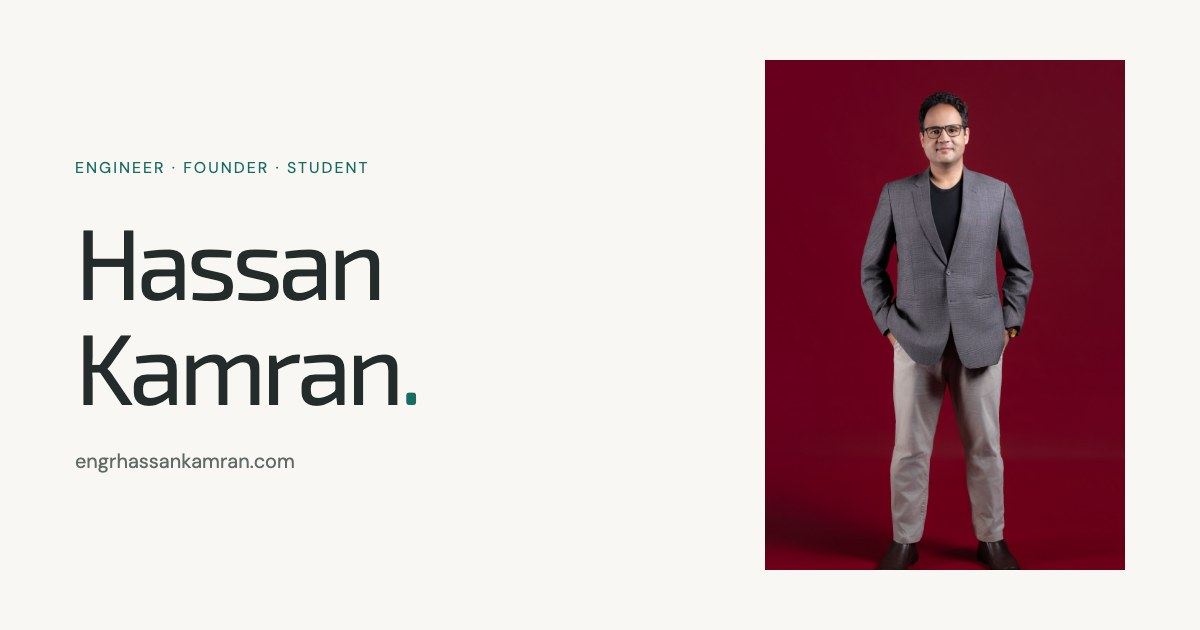
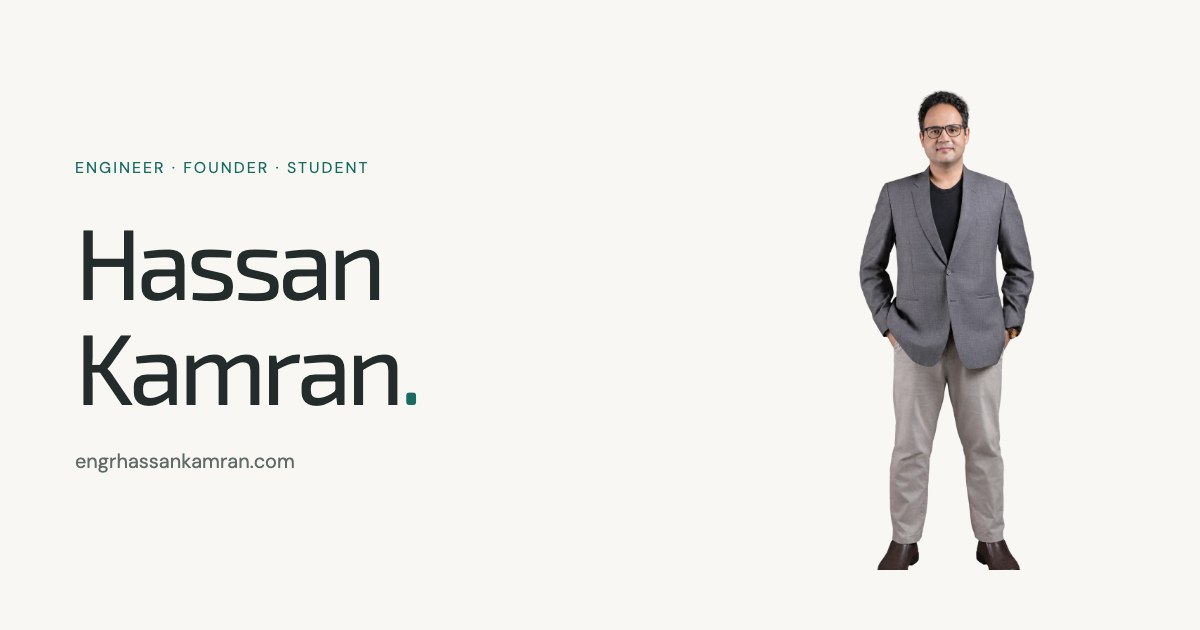
Remove red portrait backdrop and refresh sharing image

Changed region(s): [[0.6167, 0.0905, 0.9558, 0.9048]]

diff --git a/index.html b/index.html
@@ -6,7 +6,7 @@
         <p class="hero-now">Now building <strong>Khan AI</strong> and pursuing an MBA at <strong>Asia School of Business</strong>.</p>
         <div class="hero-links"><a class="text-link" href="#about">A little about me <span aria-hidden="true">↓</span></a><a href="/hassan-kamran-resume.pdf" download>Download résumé <span aria-hidden="true">↗</span></a></div>
       </div>
-      <figure class="portrait"><img src="/static/hassan-kamran.jpg" width="1000" height="1500" alt="Hassan Kamran in a grey blazer, standing against a burgundy backdrop" fetchpriority="high"><figcaption>A face to go with the name.</figcaption></figure>
+      <figure class="portrait"><img src="/static/hassan-kamran.webp" width="1024" height="1536" alt="Hassan Kamran in a grey blazer" fetchpriority="high"><figcaption>A face to go with the name.</figcaption></figure>
     </section>
     <section id="about" class="section-grid">
       <div class="section-label"><span class="section-number">01 /</span><h2>A little about me</h2></div>

diff --git a/templates/base.html b/templates/base.html
@@ -22,7 +22,7 @@
   <link rel="manifest" href="/site.webmanifest">
   <link rel="alternate" type="application/rss+xml" title="Hassan Kamran’s blog" href="/rss.xml">
   <link rel="preload" href="/static/DMSans-Regular.woff2" as="font" type="font/woff2" crossorigin>
-  <link rel="stylesheet" href="/static/site.css?v=2">
+  <link rel="stylesheet" href="/static/site.css?v=3">
   <script src="/static/site.js?v=20" defer></script>
 </head>
 <body>

diff --git a/assets-src/og-card.html b/assets-src/og-card.html
@@ -16,5 +16,5 @@ footer { color: #606a66; font-size: 20px; }
 img { width: 360px; height: 510px; object-fit: cover; object-position: center 10%; }
 </style>
 <main><p>Engineer · Founder · Student</p><h1>Hassan<br>Kamran<span>.</span></h1><footer>engrhassankamran.com</footer></main>
-<img src="../static/hassan-kamran.jpg" alt="Hassan Kamran">
+<img src="../static/hassan-kamran.webp" alt="Hassan Kamran">
 </html>

diff --git a/static/site.css b/static/site.css
@@ -248,7 +248,6 @@ strong {
   height:494px;
   object-fit:cover;
   object-position:center 10%;
-  background:#700c24;
 }
 
 figcaption {
